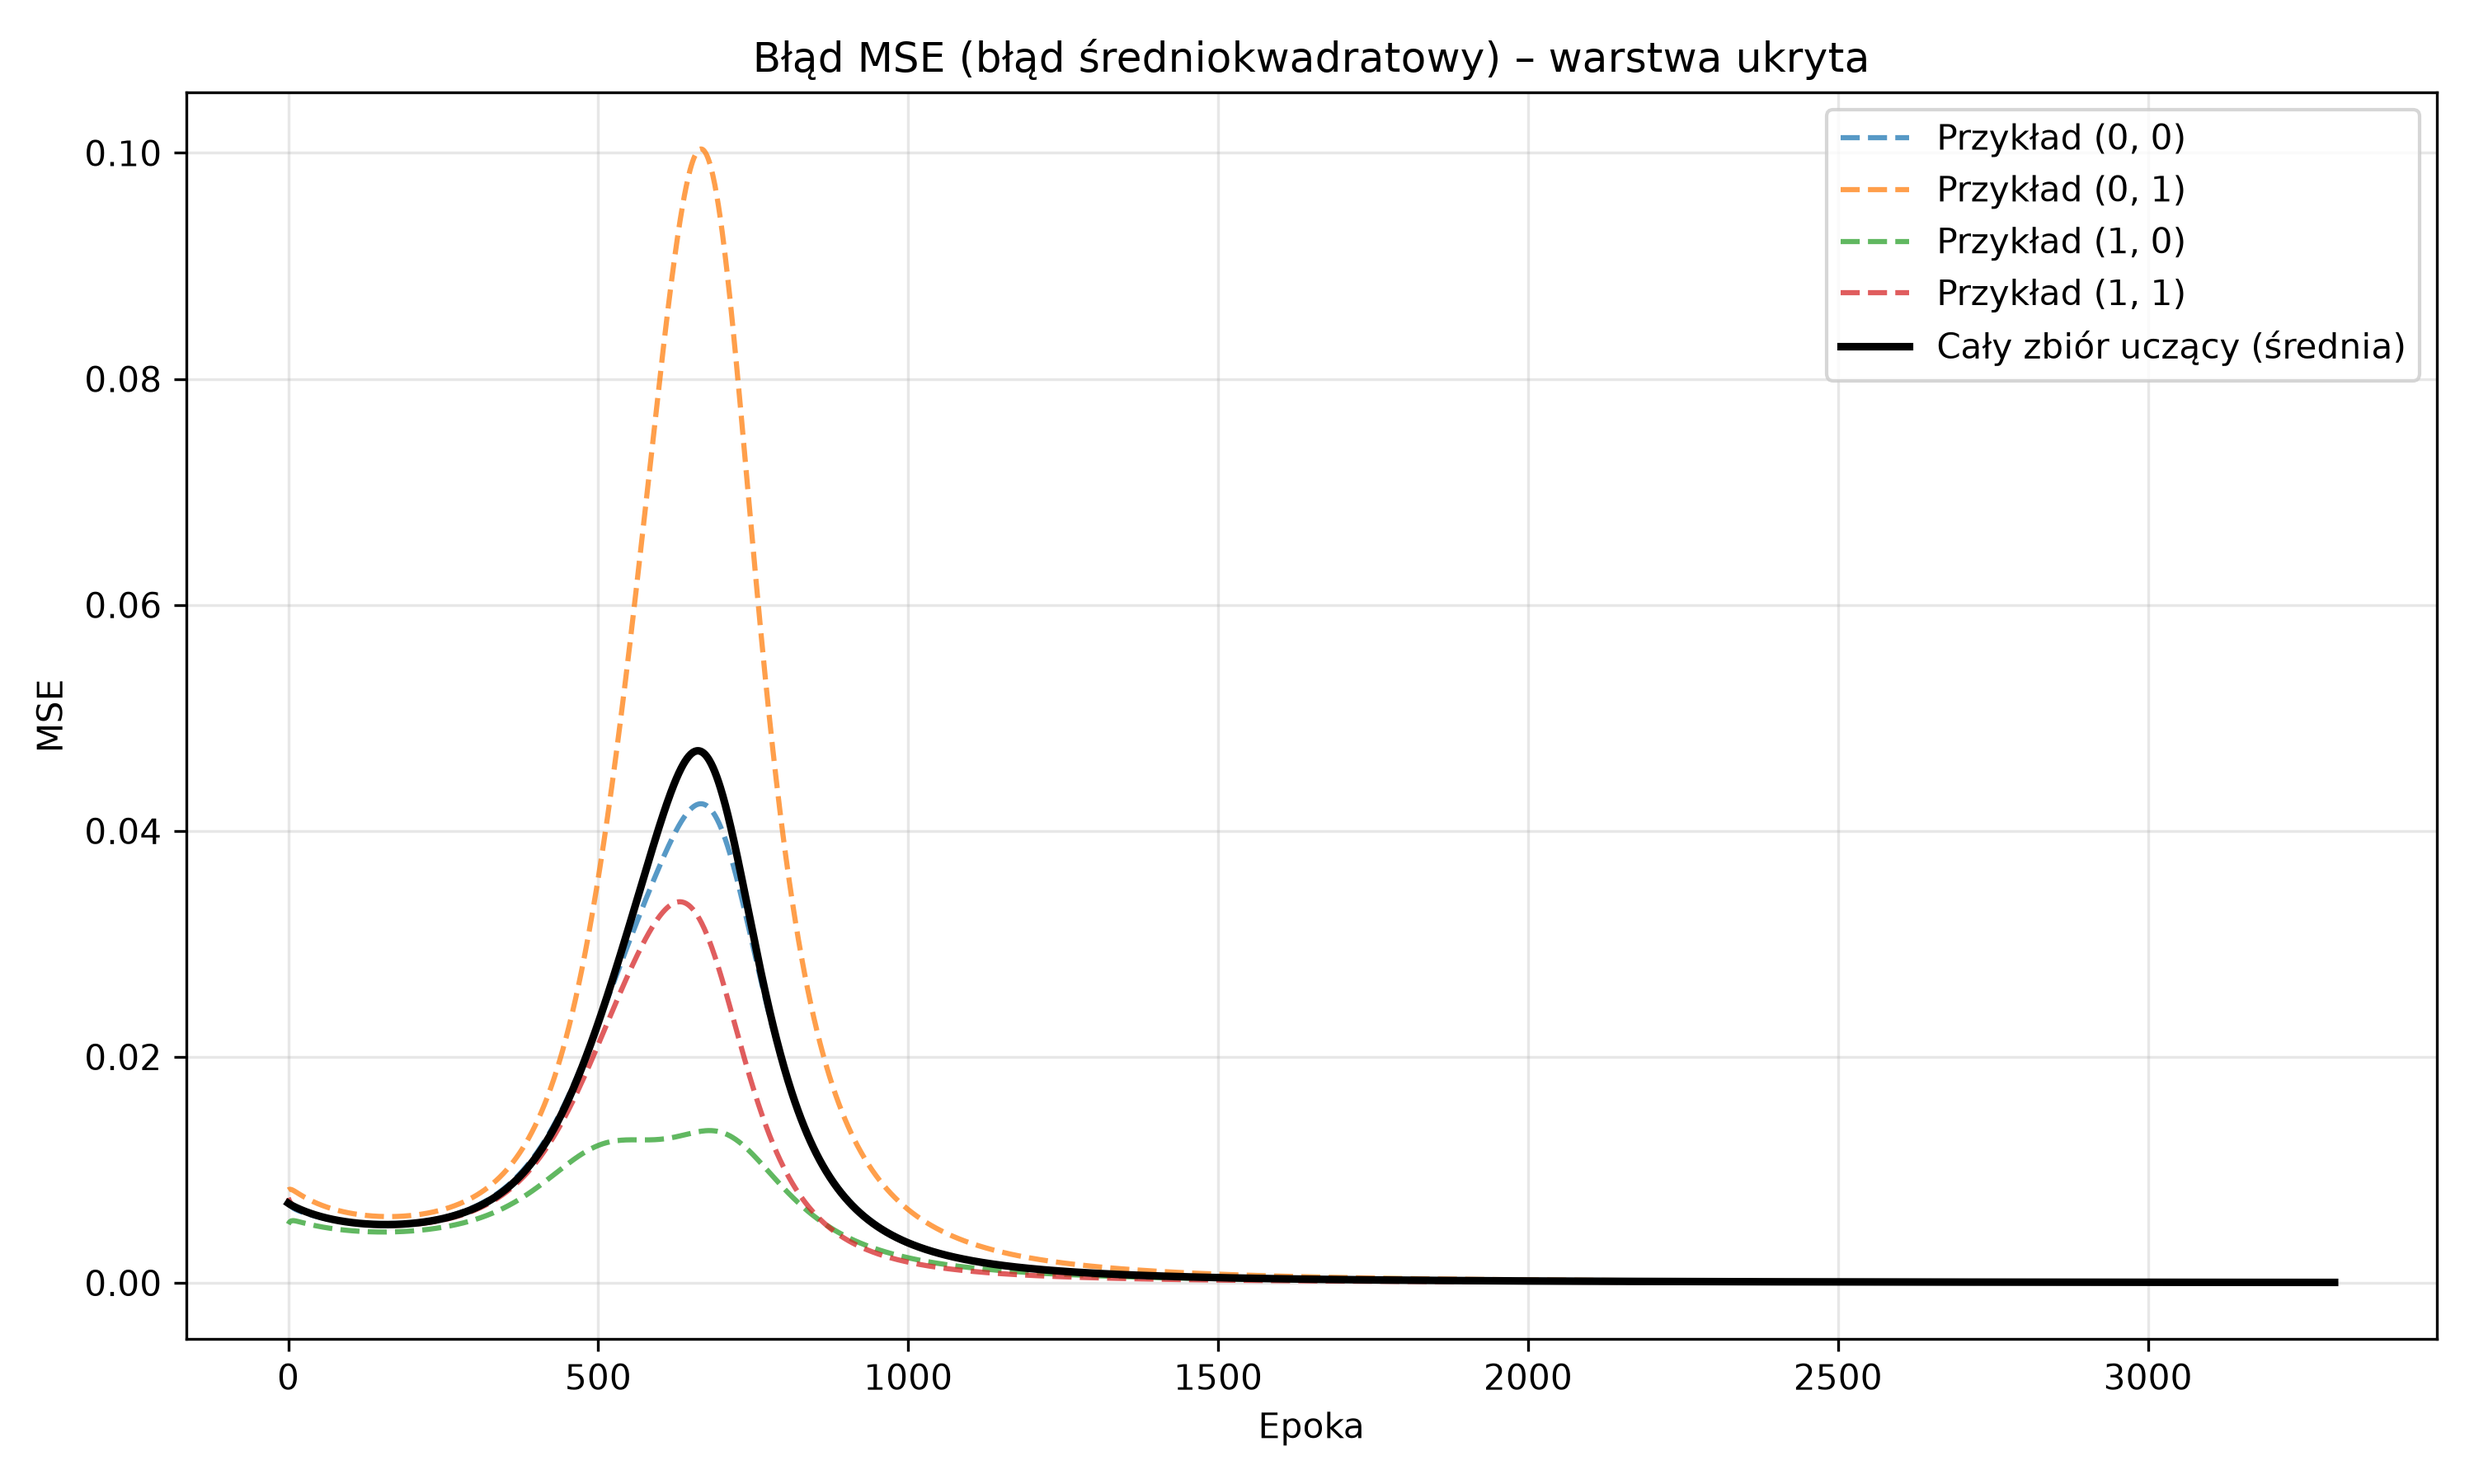
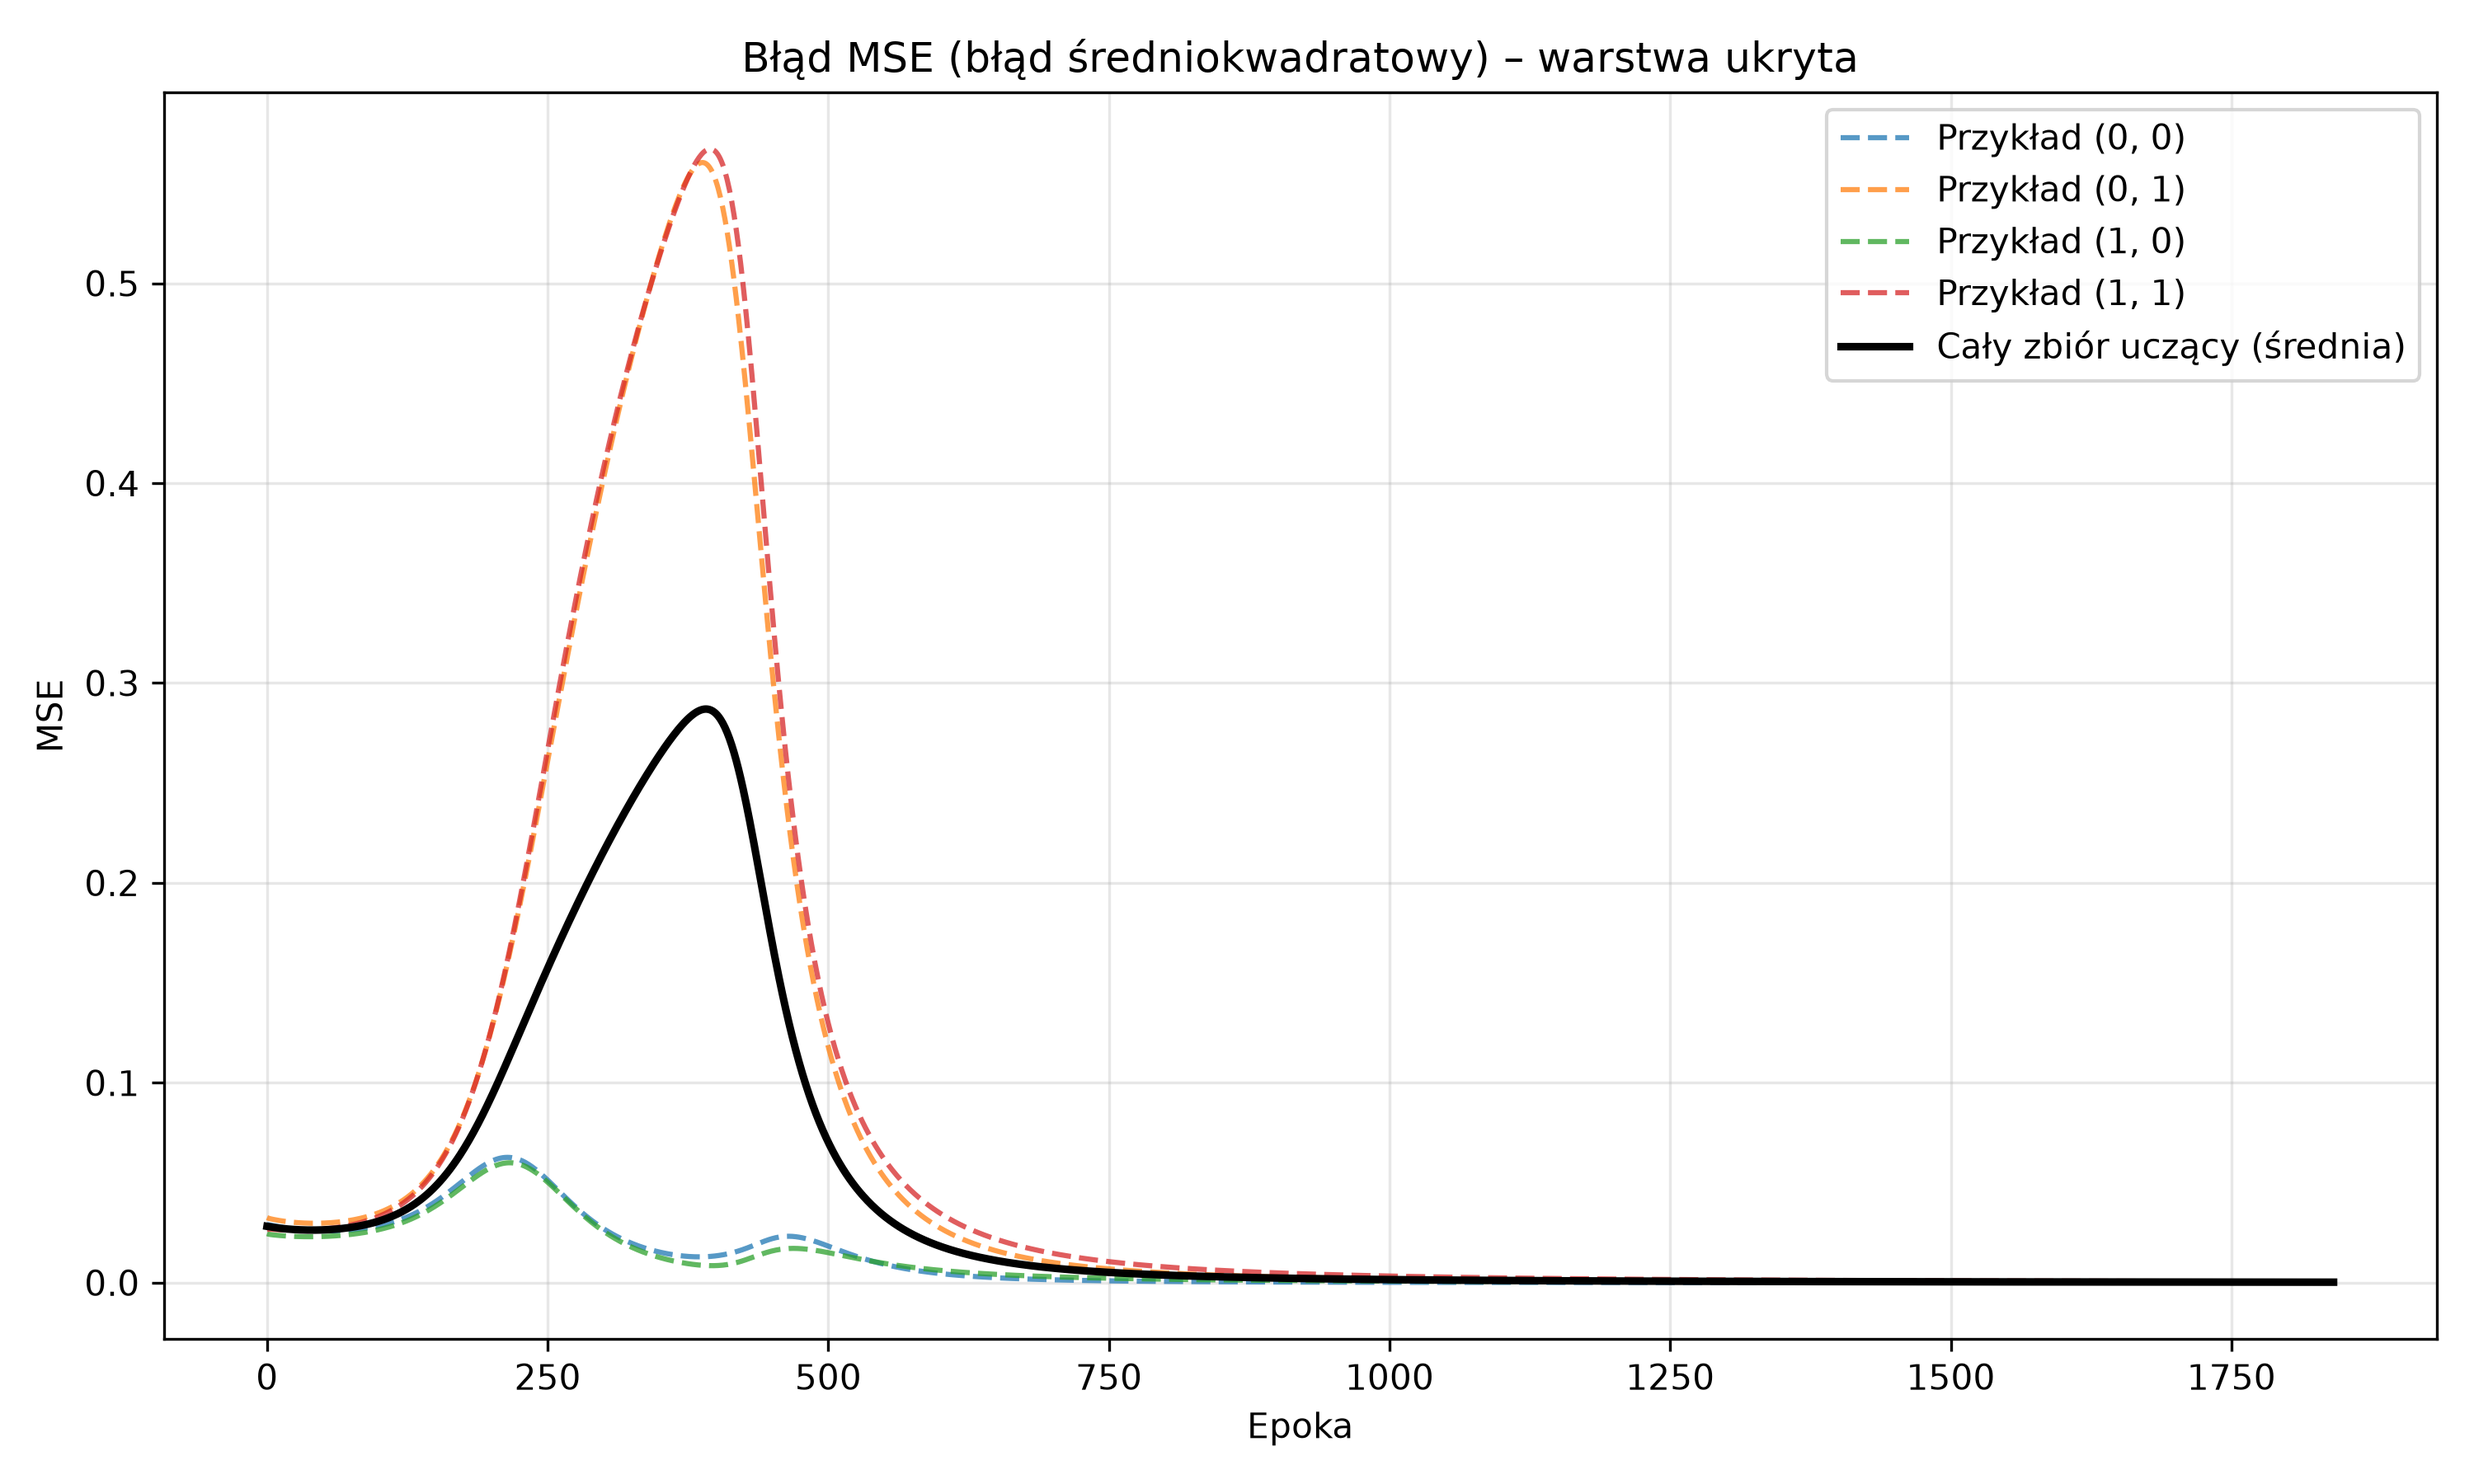
szpont na 3.0 finito

diff --git a/network.py b/network.py
@@ -8,53 +8,107 @@ def sigmoid(z):
 def sigmoid_derivative(a):
     return a * (1.0 - a)
 
-
-def init_parameters(input_size, hidden_size, output_size, seed=42):
-    np.random.seed(seed)
-    return {
-        "W1": np.random.uniform(-1.0, 1.0, size=(input_size, hidden_size)),
-        "b1": np.zeros((1, hidden_size)),
-        "W2": np.random.uniform(-1.0, 1.0, size=(hidden_size, output_size)),
-        "b2": np.zeros((1, output_size)),
-    }
-
-
-def forward_pass(X, params):
-    Z1 = X @ params["W1"] + params["b1"]
-    A1 = sigmoid(Z1)
-
-    Z2 = A1 @ params["W2"] + params["b2"]
-    A2 = sigmoid(Z2)
-
-    return {"Z1": Z1, "A1": A1, "Z2": Z2, "A2": A2}
+class NeuralNetwork1Hidden:
+    def __init__(self, input_size, hidden_size, output_size, seed=42):
+        self.input_size = input_size
+        self.hidden_size = hidden_size
+        self.output_size = output_size
+        np.random.seed(seed)
+        self.W_1 = np.random.uniform(-1.0, 1.0, size=(hidden_size, input_size))
+        self.b_1 = np.zeros((hidden_size, 1))
+        self.W_2 = np.random.uniform(-1.0, 1.0, size=(output_size, hidden_size))
+        self.b_2 = np.zeros((output_size, 1))
 
 
-def backward_pass(X, Y, params, cache):
-    A1 = cache["A1"]
-    A2 = cache["A2"]
+    def forward(self, X):
+        Z1 = self.W_1 @ X + self.b_1
+        A1 = sigmoid(Z1)
 
-    # Błąd i delta warstwy wyjściowej
-    E2 = Y - A2
-    delta2 = E2 * sigmoid_derivative(A2)
+        Z_2 = self.W_2 @ A1 + self.b_2
+        A_2 = sigmoid(Z_2)
 
-    # Błąd cofnięty i delta warstwy ukrytej
-    E1 = delta2 @ params["W2"].T
-    delta1 = E1 * sigmoid_derivative(A1)
+        cache = {"Z1": Z1, "A1": A1, "Z_2": Z_2, "A_2": A_2}
+        return A_2, cache
 
-    # Gradienty wag i biasów (przesunięć)
-    grads = {
-        "dW2": A1.T @ delta2,
-        "db2": np.sum(delta2, axis=0, keepdims=True),
-        "dW1": X.T @ delta1,
-        "db1": np.sum(delta1, axis=0, keepdims=True),
-    }
-    errors = {"E1": E1, "E2": E2}
+    
+    def backward(self, X, Y, cache):
+        A1 = cache["A1"]
+        A_2 = cache["A_2"]
 
-    return grads, errors
+        # Błąd i delta warstwy wyjściowej
+        E_2 = Y - A_2
+        delta_2 = 2 * E_2 * sigmoid_derivative(A_2)
+
+        # Błąd cofnięty i delta warstwy ukrytej
+        E1 = self.W_2.T @ delta_2
+        delta1 = E1 * sigmoid_derivative(A1)
+
+        # Gradienty wag i biasów (przesunięć)
+        grads = {
+            "dW_2": delta_2 @ A1.T,
+            "db_2": np.sum(delta_2, axis=1, keepdims=True),
+            "dW_1": delta1 @ X.T,
+            "db_1": np.sum(delta1, axis=1, keepdims=True),
+        }
+        errors = {"E1": E1, "E_2": E_2}
+
+        return grads, errors
 
 
-def update_parameters(params, grads, learning_rate):
-    params["W2"] += learning_rate * grads["dW2"]
-    params["b2"] += learning_rate * grads["db2"]
-    params["W1"] += learning_rate * grads["dW1"]
-    params["b1"] += learning_rate * grads["db1"]
+    def update(self, grads, learning_rate):
+        self.W_2 += learning_rate * grads["dW_2"]
+        self.b_2 += learning_rate * grads["db_2"]
+        self.W_1 += learning_rate * grads["dW_1"]
+        self.b_1 += learning_rate * grads["db_1"]
+
+    def train(self, X, Y, learning_rate, epochs, target_error=1e-4):
+        history = {
+            "mse_out_total": [],
+            "mse_out_samples": [],
+            "mse_hid_total": [],
+            "mse_hid_samples": [],
+            "class_errors": [],
+            "w1": [],
+            "w2": [],
+        }
+
+        stopped_epoch = epochs
+
+        for epoch in range(1, epochs + 1):
+            A_2, cache = self.forward(X)
+            grads, errors = self.backward(X, Y, cache)
+
+            # Metryki warstwy wyjściowej
+            sq_err_out = errors["E_2"] ** 2
+            mse_out_total = float(np.mean(sq_err_out))
+            mse_out_samples = sq_err_out.flatten()
+
+            # Metryki warstwy ukrytej
+            sq_err_hid = errors["E1"] ** 2
+            mse_hid_total = float(np.mean(sq_err_hid))
+            mse_hid_samples = np.mean(sq_err_hid, axis=0)
+
+            # Błąd klasyfikacji 0-1 (próg 0.5)
+            predictions = (A_2 >= 0.5).astype(float)
+            class_error = int(np.sum(predictions != Y))
+
+            # Zapis historii z bieżącej epoki
+            history["mse_out_total"].append(mse_out_total)
+            history["mse_out_samples"].append(mse_out_samples)
+            history["mse_hid_total"].append(mse_hid_total)
+            history["mse_hid_samples"].append(mse_hid_samples)
+            history["class_errors"].append(class_error)
+            history["w1"].append(self.W_1.flatten().copy())
+            history["w2"].append(self.W_2.flatten().copy())
+
+            # Warunek stopu - przerywamy przed aktualizacją, jeśli błąd jest minimalny
+            if mse_out_total <= target_error:
+                stopped_epoch = epoch
+                break
+
+            self.update(grads, learning_rate)
+
+        for key in history:
+            history[key] = np.array(history[key])
+
+        return history, stopped_epoch

diff --git a/main.py b/main.py
@@ -1,10 +1,5 @@
 import numpy as np
-from network import (
-    backward_pass,
-    forward_pass,
-    init_parameters,
-    update_parameters,
-)
+from network import NeuralNetwork1Hidden
 from plots import (
     plot_classification_error,
     plot_mse,
@@ -13,88 +8,10 @@ from plots import (
 
 
 def get_xor_data():
-    X = np.array([[0, 0], [0, 1], [1, 0], [1, 1]], dtype=float)
-    Y = np.array([[0], [1], [1], [0]], dtype=float)
+    # Przykłady jako kolumny: X ma kształt (2, 4), Y ma kształt (1, 4)
+    X = np.array([[0, 0, 1, 1], [0, 1, 0, 1]], dtype=float)
+    Y = np.array([[0, 1, 1, 0]], dtype=float)
     return X, Y
-
-
-def compute_metrics(Y, A2, E1, E2):
-    # MSE (Mean Squared Error - błąd średniokwadratowy) warstwy wyjściowej
-    sq_err_out = E2**2
-    mse_out_samples = sq_err_out.flatten()
-    mse_out_total = float(np.mean(sq_err_out))
-
-    # MSE warstwy ukrytej
-    sq_err_hid = E1**2
-    mse_hid_samples = np.mean(sq_err_hid, axis=1)
-    mse_hid_total = float(np.mean(sq_err_hid))
-
-    # Błąd klasyfikacji 0-1 (próg 0.5)
-    predictions = (A2 >= 0.5).astype(float)
-    class_error = int(np.sum(predictions != Y))
-
-    return {
-        "mse_out_total": mse_out_total,
-        "mse_out_samples": mse_out_samples,
-        "mse_hid_total": mse_hid_total,
-        "mse_hid_samples": mse_hid_samples,
-        "class_error": class_error,
-    }
-
-
-def train(
-    X,
-    Y,
-    hidden_size=3,
-    learning_rate=0.5,
-    max_epochs=10000,
-    target_error=0.001,
-    seed=42,
-):
-    params = init_parameters(
-        input_size=2,
-        hidden_size=hidden_size,
-        output_size=1,
-        seed=seed,
-    )
-
-    history = {
-        "mse_out_total": [],
-        "mse_out_samples": [],
-        "mse_hid_total": [],
-        "mse_hid_samples": [],
-        "class_errors": [],
-        "w1": [],
-        "w2": [],
-    }
-
-    stopped_epoch = max_epochs
-
-    for epoch in range(1, max_epochs + 1):
-        cache = forward_pass(X, params)
-        grads, errors = backward_pass(X, Y, params, cache)
-        metrics = compute_metrics(Y, cache["A2"], errors["E1"], errors["E2"])
-
-        # Zapis metryk i wag z bieżącej epoki
-        history["mse_out_total"].append(metrics["mse_out_total"])
-        history["mse_out_samples"].append(metrics["mse_out_samples"])
-        history["mse_hid_total"].append(metrics["mse_hid_total"])
-        history["mse_hid_samples"].append(metrics["mse_hid_samples"])
-        history["class_errors"].append(metrics["class_error"])
-        history["w1"].append(params["W1"].flatten().copy())
-        history["w2"].append(params["W2"].flatten().copy())
-
-        update_parameters(params, grads, learning_rate)
-
-        # Wcześniejsze zakończenie uczenia po osiągnięciu zadanego błędu
-        if metrics["mse_out_total"] <= target_error:
-            stopped_epoch = epoch
-            break
-
-    for key in history:
-        history[key] = np.array(history[key])
-
-    return params, history, stopped_epoch
 
 
 if __name__ == "__main__":
@@ -107,27 +24,32 @@ if __name__ == "__main__":
     TARGET_ERROR = 0.001
     SEED = 42
 
-    trained_params, history, final_epoch = train(
-        X=X,
-        Y=Y,
+    nn = NeuralNetwork1Hidden(
+        input_size=2,
         hidden_size=HIDDEN_SIZE,
-        learning_rate=LEARNING_RATE,
-        max_epochs=MAX_EPOCHS,
-        target_error=TARGET_ERROR,
+        output_size=1,
         seed=SEED,
     )
 
+    history, final_epoch = nn.train(
+        X=X,
+        Y=Y,
+        learning_rate=LEARNING_RATE,
+        epochs=MAX_EPOCHS,
+        target_error=TARGET_ERROR,
+    )
+
     # Podsumowanie wyników w konsoli
-    final_output = forward_pass(X, trained_params)["A2"]
+    final_output, _ = nn.forward(X)
     print(f"Zakończono na epoce: {final_epoch} / {MAX_EPOCHS}")
     print(f"Końcowe MSE warstwy wyjściowej: {history['mse_out_total'][-1]:.6f}")
     print(f"Końcowy błąd klasyfikacji: {history['class_errors'][-1]} / 4\n")
 
     print("Wejście | Oczekiwane | Predykcja sieci | Po progowaniu (0-1)")
-    for x_row, y_true, y_pred in zip(X, Y, final_output):
+    for x_col, y_true, y_pred in zip(X.T, Y.T, final_output.T):
         pred_bin = int(y_pred[0] >= 0.5)
         print(
-            f" {int(x_row[0])}, {int(x_row[1])}   |     {int(y_true[0])}      |"
+            f" {int(x_col[0])}, {int(x_col[1])}   |     {int(y_true[0])}      |"
             f"     {y_pred[0]:.4f}      |          {pred_bin}"
         )
 
